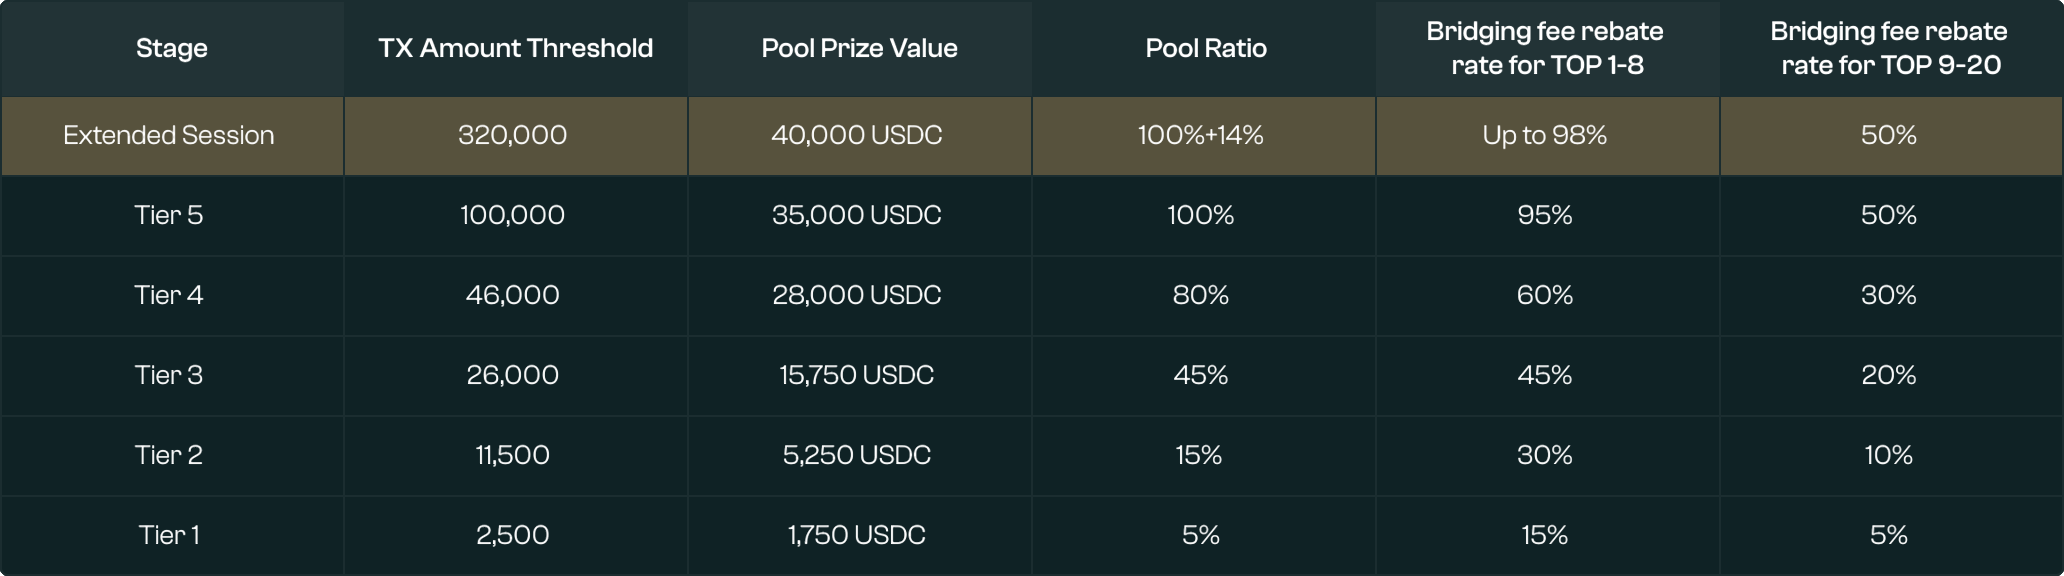
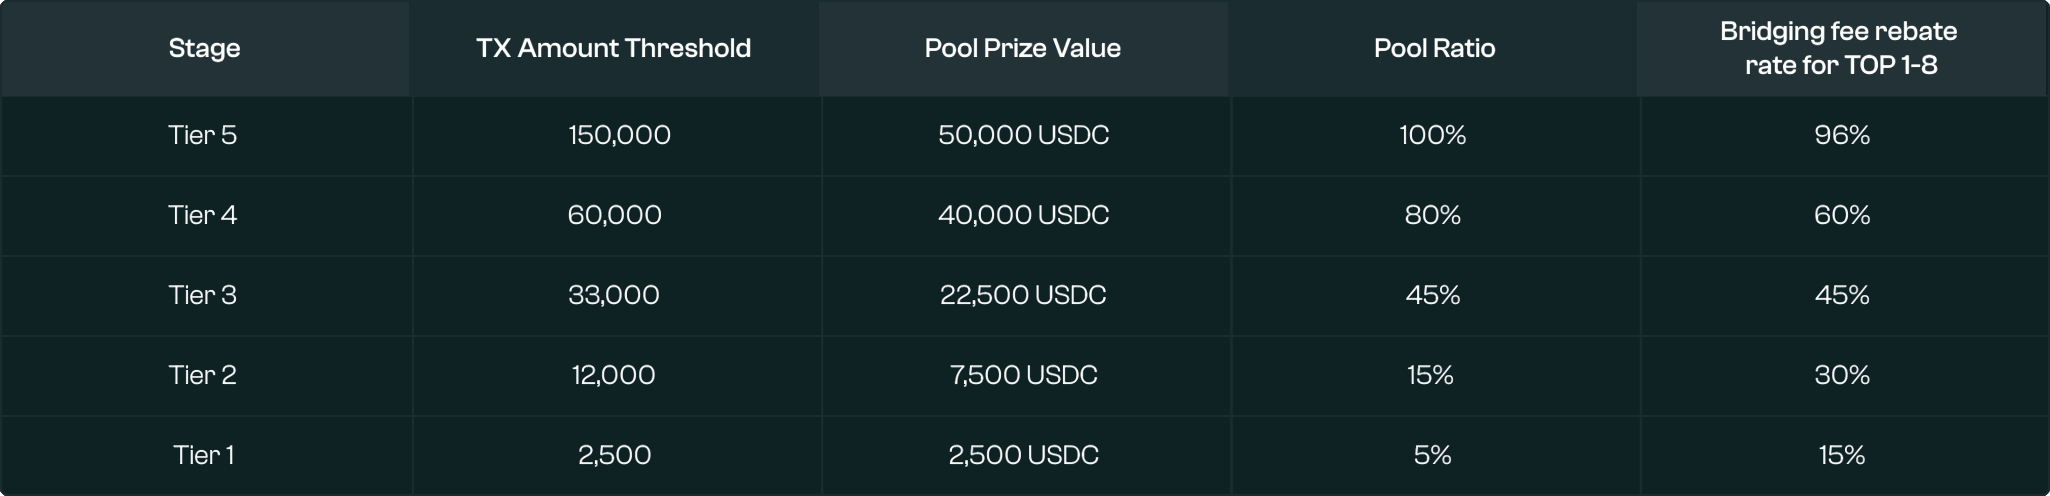
fix: prizes v6

diff --git a/src/views/prizes/components/PrizesAllocation.vue b/src/views/prizes/components/PrizesAllocation.vue
@@ -113,7 +113,7 @@
               ? !item.isSuccess || !!item.isPromotion
                 ? ''
                 : 'task-card-options-group-success'
-              : 'task-quest'
+              : (item.isSuccess ? 'task-opoints-quest-success' : 'task-quest')
           "
           :style="`opacity:${
             !!item.isSuccess && !!item.isPromotion ? '0.4' : '1'
@@ -323,10 +323,20 @@
             <div v-else>
               <div
                 v-if="item.isSuccess"
-                @click.stop="toGalxeBtn(item)"
                 class="earn-nft"
               >
-                + 100 options
+              + {{ item.opoints }}
+              <svg-icon class="icon" iconName="O-Points"></svg-icon>
+              <div class="text">OPoints</div>
+              <svg class="icon" xmlns="http://www.w3.org/2000/svg" xmlns:xlink="http://www.w3.org/1999/xlink" width="24.000000" height="24.000000" viewBox="0 0 24 24" fill="none">
+                <g opacity="0.400000">
+                  <rect rx="12.000000" width="24.000000" height="24.000000" fill="#DDF600" fill-opacity="0"/>
+                  <rect x="0.500000" y="0.500000" rx="11.500000" width="23.000000" height="23.000000" stroke="#979797" stroke-opacity="0" stroke-width="1.000000"/>
+                  <rect x="2.000000" y="2.000000" rx="10.000000" width="20.000000" height="20.000000" fill="#DDF600" fill-opacity="1.000000"/>
+                  <rect x="2.500000" y="2.500000" rx="9.500000" width="19.000000" height="19.000000" stroke="#979797" stroke-opacity="0" stroke-width="1.000000"/>
+                  <path d="M7.73 12.81L10.58 15.65L15.94 10.29" stroke="#000000" stroke-opacity="1.000000" stroke-width="1.500000" stroke-linejoin="round" stroke-linecap="round"/>
+                </g>
+              </svg>
               </div>
               <div v-else>
                 <div class="prizes-promotion">
@@ -426,10 +436,10 @@ export default {
       return list[99]?.txAmount || 20
     },
     userSignTotal() {
-      const userList = (this.userList || []).slice(1)
+      const userList = this.userList || []
       let count = 0
       userList.forEach((item) => {
-        count += !!Number(item?.task_result)
+        count += !!Number(item?.finished)
       })
       return count
     },
@@ -607,7 +617,7 @@ export default {
           icon: 'task',
           text: `Complete <span class='orbiter_global_prizes_tx-color'>7 Days</span> Bridging Check-in Task`,
           specificChain: false,
-          isPromotion: false,
+          isPromotion: Number(count) >= 7,
           isSuccess: Number(count) >= 7,
           lastText: '',
           opoints: 126,
@@ -618,7 +628,7 @@ export default {
           icon: 'task',
           text: `Complete <span class='orbiter_global_prizes_tx-color'>14 Days</span> Bridging Check-in Task`,
           specificChain: false,
-          isPromotion: false,
+          isPromotion: Number(count) >= 14,
           isSuccess: Number(count) >= 14,
           lastText: '',
           opoints: 420,
@@ -714,7 +724,7 @@ export default {
     },
     openTelegram(option) {
       const address = this.evmAddress
-      if (!address || address === '0x' || this.isEnd || option.icon === 'task')
+      if (!address || address === '0x' || this.isEnd)
         return
       const name = 'PRIZES_V6_BANNER_TO_BRIDGE'
       this.$gtag.event(name, {
@@ -1135,11 +1145,15 @@ export default {
       .task-card-pool-group.task-quest {
         background: rgba(255, 196, 125, 0.1);
       }
+      .task-card-pool-group.task-opoints-quest-success {
+        background: rgb(10, 22, 24);
+        backdrop-filter: blur(12px);
+      }
       .task-card-pool-group.task-card-options-group-success {
-        border: 1px solid rgb(59, 127, 255);
+        border: 1px solid rgb(255, 196, 125);
         border-radius: 12px;
         backdrop-filter: blur(12px);
-        background: rgba(59, 127, 255, 0.15);
+        background: rgb(255, 196, 125, 0.15);
       }
       .task-card-pool-group {
         width: 100%;
@@ -1204,15 +1218,21 @@ export default {
           }
 
           .earn-nft {
-            padding: 0 12px;
-            height: 32px;
             display: flex;
             justify-content: center;
             align-items: center;
-            font-size: 12px;
+            font-size: 16px;
             font-family: GeneralSans-SemiBold;
             border-radius: 4px;
             backdrop-filter: blur(156px);
+            .icon {
+              width: 24px;
+              height: 24px;
+              margin-left: 4px;
+            }
+            .text {
+              margin: 0 4px;
+            }
           }
         }
       }

diff --git a/src/views/prizes/components/PrizesRule.vue b/src/views/prizes/components/PrizesRule.vue
@@ -38,11 +38,11 @@ export default {
           text: [
             '- Complete <span class="orbiter_global_prizes_rule_tag">≥3 transactions </span> to qualify for a share of the prize pool.',
             '- <span class="orbiter_global_prizes_rule_tag">Prize Pool Breakdown:</span>',
-            '&nbsp;&nbsp;&nbsp;&nbsp;&nbsp;&nbsp;&nbsp;- <span class="orbiter_global_prizes_rule_tag">≥3 Transactions:</span> Share 5% of the prize pool',
-            '&nbsp;&nbsp;&nbsp;&nbsp;&nbsp;&nbsp;&nbsp;- <span class="orbiter_global_prizes_rule_tag">≥8 Transactions:</span> Share 10% of the prize pool',
-            '&nbsp;&nbsp;&nbsp;&nbsp;&nbsp;&nbsp;&nbsp;- <span class="orbiter_global_prizes_rule_tag">≥15 Transactions:</span> Share 18% of the prize pool',
-            '&nbsp;&nbsp;&nbsp;&nbsp;&nbsp;&nbsp;&nbsp;- <span class="orbiter_global_prizes_rule_tag">Top 9-100 Traders (with ≥20 trades):</span> Share 32% of the prize pool and qualify for <span class="orbiter_global_prizes_rule_tag">minting Alpha Badge</span> on scroll.',
-            '&nbsp;&nbsp;&nbsp;&nbsp;&nbsp;&nbsp;&nbsp;- <span class="orbiter_global_prizes_rule_tag">Top 1-8 Traders (with ≥20 trades):</span> Share 35% of the prize pool and qualify for <span class="orbiter_global_prizes_rule_tag">minting Alpha Badge</span> on scroll.',
+            '&nbsp;&nbsp;&nbsp;&nbsp;&nbsp;&nbsp;&nbsp;- <span class="orbiter_global_prizes_rule_tag">≥3 TX Traders:</span> Share 5% of the prize pool',
+            '&nbsp;&nbsp;&nbsp;&nbsp;&nbsp;&nbsp;&nbsp;- <span class="orbiter_global_prizes_rule_tag">≥8 TX Traders:</span> Share 10% of the prize pool and qualify for <span class="orbiter_global_prizes_rule_tag">minting Gamma Badge</span> on scroll.',
+            '&nbsp;&nbsp;&nbsp;&nbsp;&nbsp;&nbsp;&nbsp;- <span class="orbiter_global_prizes_rule_tag">≥15 TX Traders:</span> Share 18% of the prize pool and qualify for <span class="orbiter_global_prizes_rule_tag">minting Beta Badge</span> on scroll.',
+            '&nbsp;&nbsp;&nbsp;&nbsp;&nbsp;&nbsp;&nbsp;- <span class="orbiter_global_prizes_rule_tag">Top 9-100 Traders (with ≥20 TX Traders):</span> Share 32% of the prize pool and qualify for <span class="orbiter_global_prizes_rule_tag">minting Alpha Badge</span> on scroll.',
+            '&nbsp;&nbsp;&nbsp;&nbsp;&nbsp;&nbsp;&nbsp;- <span class="orbiter_global_prizes_rule_tag">Top 1-8 Traders (with ≥20 TX Traders):</span> Share 35% of the prize pool and qualify for <span class="orbiter_global_prizes_rule_tag">minting Alpha Badge</span> on scroll.',
           ],
         },
         {
@@ -51,7 +51,8 @@ export default {
           text: [
             '<span class="orbiter_global_prizes_rule_tag">Note:</span>',
             '- The prize pool will be unlocked when the amount of transactions (TX) ≥ 2,500;',
-            '- TOP 1 to 8 users, up to 96% bridging fees (except for gas fees) will be rebated.'
+            '- TOP 1 to 8 users, up to 96% bridging fees (except for gas fees) will be rebated.',
+            '- One address can only receive up to 420 opoints.'
           ],
         },
         {

diff --git a/src/components/layouts/HeaderPrizesTimeOut.vue b/src/components/layouts/HeaderPrizesTimeOut.vue
@@ -1,7 +1,6 @@
 <template>
   <div class="time-out">
-    <div class="time-content">Base</div>
-      <!-- <svg xmlns="http://www.w3.org/2000/svg" shape-rendering="geometricPrecision" text-rendering="geometricPrecision" image-rendering="optimizeQuality" fill-rule="evenodd" clip-rule="evenodd" viewBox="0 0 384 511.4"><defs><linearGradient id="a" gradientUnits="userSpaceOnUse" x1="163.52" y1="286.47" x2="163.52" y2="500.71"><stop offset="0" stop-color="#FB6404"/><stop offset="1" stop-color="#F2BE10"/></linearGradient></defs><path fill="#E20919" d="M77.46 228.43C65.33 119.85 128.78 43.48 247.72 0c-72.85 94.5 62.09 196.88 69.53 295.03 17.44-29.75 27.34-69.48 29.3-122.55 89.18 139.92 15.25 368.59-181.02 335.73-18.02-3.01-35.38-8.7-51.21-17.17C42.76 452.8 0 369.53 0 290c0-50.69 21.68-95.95 49.74-131.91 3.75 35.23 11.73 61.51 27.72 70.34z"/><path fill="url(#a)" d="M139.16 372.49c-21.83-57.66-18.81-150.75 42.33-183.41.43 107.03 103.57 120.64 84.44 234.9 17.64-20.39 26.51-53.02 28.1-78.75 27.96 65.38 6.04 117.72-33.81 144.37-121.15 81-225.48-83.23-156.11-173.26 2.08 20.07 26.14 51.12 35.05 56.15z"/></svg> -->
+    <div class="time-content">scroll</div>
   </div>
 </template>
 

diff --git a/src/views/prizes/components/PrizesRank.vue b/src/views/prizes/components/PrizesRank.vue
@@ -46,7 +46,7 @@
           </div>
           <div class="user-address">User</div>
           <div class="cumulative-tx">Total Transaction</div>
-          <div class="bridge-fee" v-if="current <= 2">Bridging fee rebate</div>
+          <div class="bridge-fee" v-if="current <= 1">Bridging fee rebate</div>
           <div class="emit-reward">Estimated Earnings</div>
         </div>
         <div
@@ -68,7 +68,7 @@
           <div class="cumulative-tx">
             {{ decimalNumC(item.txAmount, 0, ',') }} tx
           </div>
-          <div class="bridge-fee" v-if="current <= 2">
+          <div class="bridge-fee" v-if="current <= 1">
             {{ bridgingFee(item) }}
           </div>
           <div class="emit-reward">
